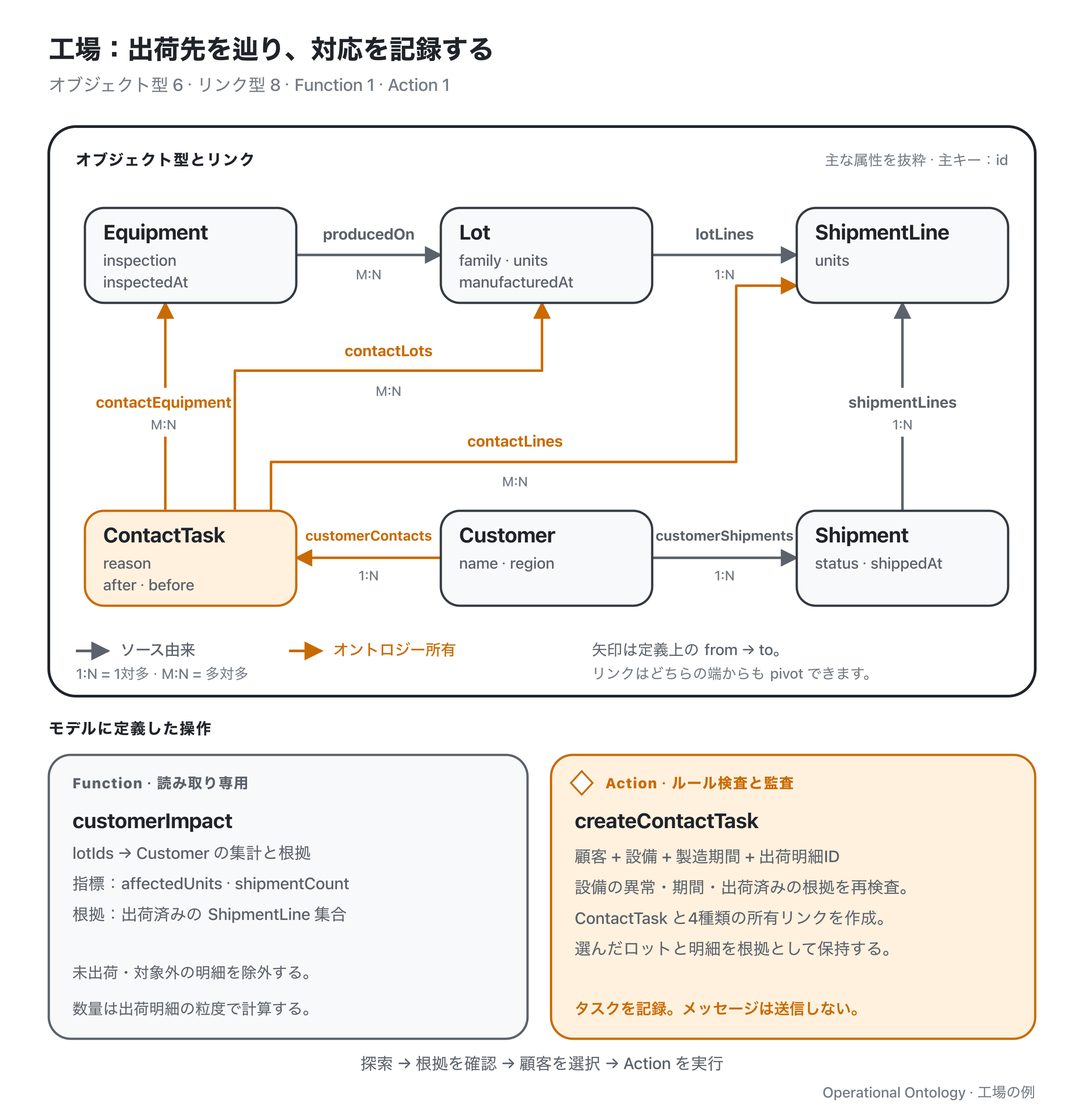
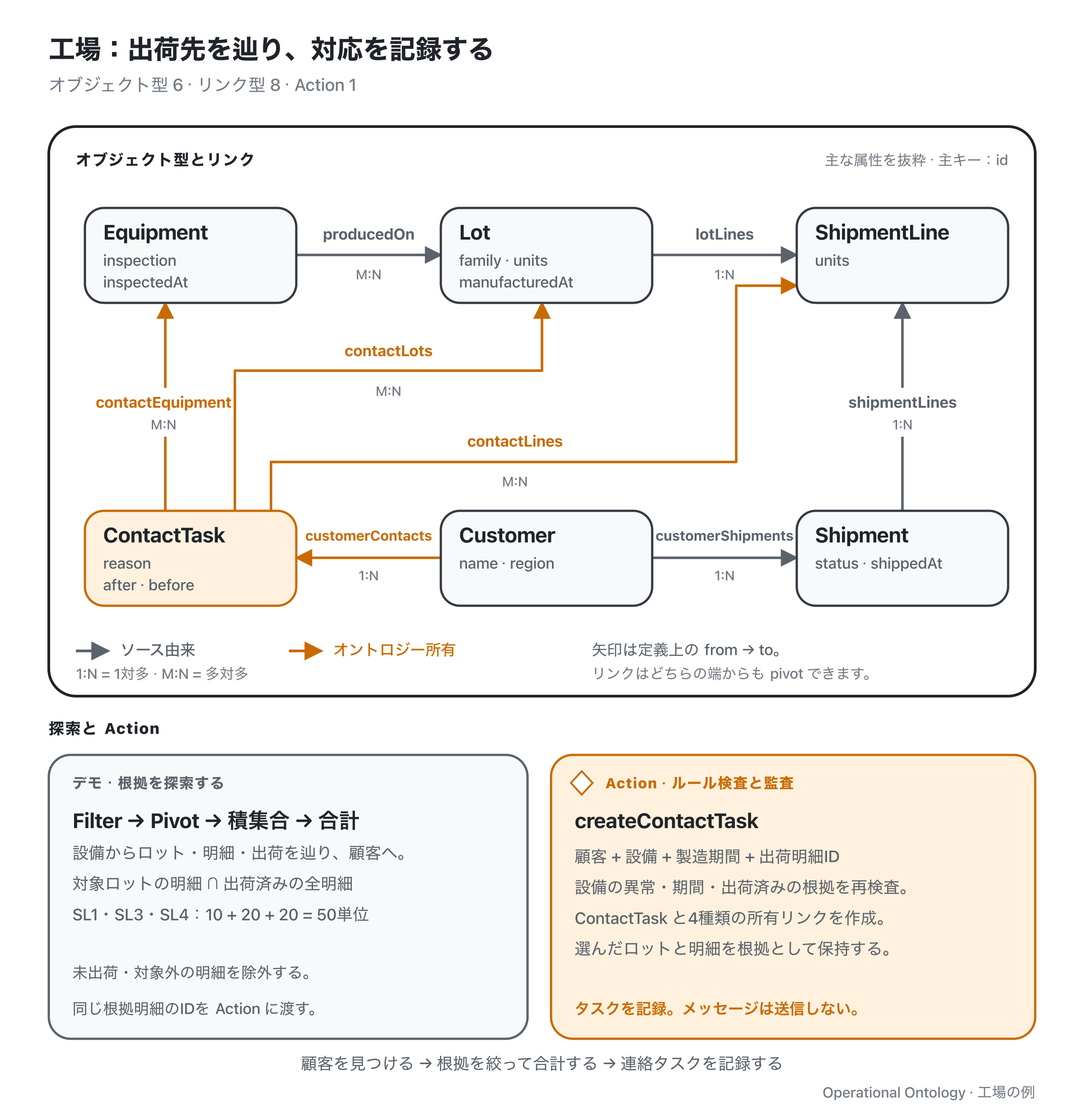
fix(factory): carry explored shipment evidence into contact tasks

diff --git a/examples/factory/scenario.test.ts b/examples/factory/scenario.test.ts
@@ -3,6 +3,7 @@ import assert from 'node:assert/strict'
 import { Client } from '@modelcontextprotocol/sdk/client/index.js'
 import { InMemoryTransport } from '@modelcontextprotocol/sdk/inMemory.js'
 import { buildMcpServer } from '../../src/mcp.js'
+import { objectSet, type ObjectSet } from '../../src/core.js'
 import { integrate } from './integrate.js'
 import { createFactory } from './runtime.js'
 
@@ -30,6 +31,7 @@ test('factory investigates a supplied manufacturing window and records shipped-l
   const shipments = rt.filter(rt.pivot(affected, 'shipmentLines', { actor }), (object) => object.properties.status === 'shipped')
   const lines = rt.intersect(affected, rt.pivot(shipments, 'shipmentLines', { actor }))
   assert.deepEqual(ids(lines.objects), ['SL1', 'SL3', 'SL4'])
+  assert.equal(lines.objects.reduce((sum, line) => sum + (line.properties.units as number), 0), 50)
   assert.deepEqual(ids(shipments.objects), ['S1', 'S2'])
   assert.equal(shipments.objects.every((s) => s.properties.status === 'shipped'), true)
   assert.deepEqual(ids(rt.pivot(shipments, 'customerShipments', { actor }).objects), ['C1'])
@@ -52,18 +54,14 @@ test('factory investigates a supplied manufacturing window and records shipped-l
   assert.equal(rt.auditLog({ status: 'applied' }).length, 1)
 })
 
-test('factory impact counts affected line quantities once across converging paths', (t) => {
+test('factory exploration deduplicates converging production paths without losing shipment lines', (t) => {
   const { rt } = setup(t)
   const equipment = rt.filter(rt.search('Equipment', { actor }), (object) => ['PRESS-1', 'OVEN-1'].includes(object.properties.id as string))
   const lots = rt.pivot(equipment, 'producedOn', { actor })
   assert.deepEqual(ids(lots.objects), ['L1', 'L2', 'L3'])
-  const impact = rt.call('customerImpact', { lotIds: [...ids(lots.objects), 'L1'] }, { actor })
-  assert.deepEqual(impact.aggregation.values, [
-    { key: 'C1', pks: ['C1'], metrics: { affectedUnits: 50, shipmentCount: 2 } },
-    { key: 'C2', pks: ['C2'], metrics: { affectedUnits: 15, shipmentCount: 1 } },
-  ])
-  assert.deepEqual(ids(impact.evidence[0].lines.objects), ['SL1', 'SL3', 'SL4'])
-  assert.deepEqual(rt.call('customerImpact', { lotIds: [] }, { actor }).aggregation.set, { type: 'Customer', objects: [] })
+  const lines = rt.pivot(lots, 'lotLines', { actor })
+  assert.deepEqual(ids(lines.objects), ['SL1', 'SL3', 'SL5', 'SL2', 'SL4'])
+  assert.equal(lines.objects.reduce((sum, line) => sum + (line.properties.units as number), 0), 75)
   assert.deepEqual(rt.auditLog(), [])
 })
 
@@ -72,25 +70,22 @@ for (const status of ['pending', 'held']) {
     const { rt, sources } = setup(t)
     sources.wms.prepare('UPDATE shipment SET status = ?, shipped_at = NULL WHERE id = ?').run(status, 'S2')
     rt.load(integrate(sources))
-    const impact = rt.call('customerImpact', { lotIds: ['L1', 'L3'] }, { actor })
-    assert.deepEqual(impact.aggregation.values, [
-      { key: 'C1', pks: ['C1'], metrics: { affectedUnits: 10, shipmentCount: 1 } },
-    ])
-    assert.deepEqual(ids(impact.evidence[0].lines.objects), ['SL1'], 'exclude unshipped lines and unrelated L4 packed in S1')
+    const lots = objectSet('Lot', ['L1', 'L3'].map((id) => rt.get('Lot', id, { actor })!))
+    const affected = rt.pivot(lots, 'lotLines', { actor })
+    const shipments = rt.filter(rt.pivot(affected, 'shipmentLines', { actor }), (object) => object.properties.status === 'shipped')
+    const evidence = rt.intersect(affected, rt.pivot(shipments, 'shipmentLines', { actor }))
+    assert.deepEqual(ids(evidence.objects), ['SL1'], 'exclude unshipped lines and unrelated L4 packed in S1')
+    assert.equal(evidence.objects[0].properties.units, 10)
     const request = {
       customerId: 'C1', equipmentId: 'PRESS-1', taskId: 'CONTACT', reason: 'Review affected shipped products',
       after: '2026-09-06T00:00:00+09:00', before: '2026-09-07T00:00:00+09:00',
-      lineIds: ids(impact.evidence[0].lines.objects),
+      lineIds: ids(evidence.objects),
     }
     assert.equal(rt.execute('createContactTask', request, { actor }).ok, true)
     assert.deepEqual(ids(rt.traverse(rt.get('ContactTask', 'CONTACT', { actor })!, 'contactLines', { actor }).objects), ['SL1'])
 
     sources.wms.prepare('UPDATE shipment SET status = ?, shipped_at = NULL WHERE id = ?').run(status, 'S1')
     rt.load(integrate(sources))
-    const none = rt.call('customerImpact', { lotIds: ['L1', 'L3'] }, { actor })
-    assert.deepEqual(none.aggregation.set, { type: 'Customer', objects: [] })
-    assert.deepEqual(none.aggregation.values, [])
-    assert.deepEqual(none.evidence, [])
     const stale = rt.execute('createContactTask', { ...request, taskId: 'STALE' }, { actor })
     assert.equal(stale.ok, false)
     if (!stale.ok) assert.equal(stale.error.code, 'INVALID_EVIDENCE')
@@ -98,36 +93,44 @@ for (const status of ['pending', 'held']) {
   })
 }
 
-test('MCP clients filter customer-impact metrics locally and record the returned evidence', async (t) => {
+test('MCP clients discover factory evidence through client filters, pivots and intersection before recording it', async (t) => {
   const app = setup(t)
   const server = buildMcpServer(app.rt, { agent: 'investigator' })
   const [clientTransport, serverTransport] = InMemoryTransport.createLinkedPair()
   const client = new Client({ name: 'factory-test', version: '0.0.0' })
   await Promise.all([server.connect(serverTransport), client.connect(clientTransport)])
   t.after(async () => { await client.close(); await server.close() })
-  const tool = (await client.listTools()).tools.find((tool) => tool.name === 'customer_impact')!
-  assert.equal(tool.annotations?.readOnlyHint, true)
-  assert.deepEqual(tool.inputSchema.required, ['lotIds'])
-  const readJson = (result: Awaited<ReturnType<typeof client.callTool>>) => {
+  async function call<T>(name: string, args: Record<string, unknown>): Promise<T> {
+    const result = await client.callTool({ name, arguments: args })
     assert.notEqual(result.isError, true)
     assert.ok(Array.isArray(result.content))
     const block = result.content[0]
     assert.equal(block.type, 'text')
-    return JSON.parse(block.text as string)
+    return JSON.parse(block.text as string) as T
   }
-  const impact = readJson(await client.callTool({ name: 'customer_impact', arguments: { lotIds: ['L1', 'L3'] } })) as
-    ReturnType<typeof app.rt.ontology.functions.customerImpact.run>
-  assert.deepEqual(impact.aggregation.values, [{ key: 'C1', pks: ['C1'], metrics: { affectedUnits: 50, shipmentCount: 2 } }])
-  // This code runs in the client; only the resulting IDs return to the server.
-  const selectedIds = impact.aggregation.values.filter((row) => row.metrics.affectedUnits >= 40).flatMap((row) => row.pks)
-  assert.deepEqual(selectedIds, ['C1'])
+  const window = { after: '2026-09-06T00:00:00+09:00', before: '2026-09-07T00:00:00+09:00' }
+  const allEquipment = await call<ObjectSet>('search_equipment', {})
+  // These predicates run in the client; selected IDs return to the server.
+  const equipment = allEquipment.objects.filter((object) => object.properties.inspection === 'anomaly')
+  const produced = await call<ObjectSet>('pivot_produced_on', { source: { type: 'Equipment', pks: ids(equipment) } })
+  const lots = produced.objects.filter((object) => {
+    const time = Date.parse(object.properties.manufacturedAt as string)
+    return time >= Date.parse(window.after) && time < Date.parse(window.before)
+  })
+  const lines = await call<ObjectSet>('pivot_lot_lines', { source: { type: 'Lot', pks: ids(lots) } })
+  const allShipments = await call<ObjectSet>('pivot_shipment_lines', { source: { type: 'ShipmentLine', pks: ids(lines.objects) } })
+  const shipments = allShipments.objects.filter((object) => object.properties.status === 'shipped')
+  const customers = await call<ObjectSet>('pivot_customer_shipments', { source: { type: 'Shipment', pks: ids(shipments) } })
+  assert.deepEqual(ids(customers.objects), ['C1'])
+  const packed = await call<ObjectSet>('pivot_shipment_lines', { source: { type: 'Shipment', pks: ids(shipments) } })
+  const evidence = await call<ObjectSet>('intersect_shipment_line', { left: ids(lines.objects), right: ids(packed.objects) })
+  assert.deepEqual(ids(evidence.objects), ['SL1', 'SL3', 'SL4'])
+  assert.equal(evidence.objects.reduce((sum, line) => sum + (line.properties.units as number), 0), 50)
   assert.deepEqual(app.rt.auditLog(), [])
-  const evidence = impact.evidence.find((e) => e.customerId === selectedIds[0])!
-  readJson(await client.callTool({ name: 'create_contact_task', arguments: {
-    customerId: evidence.customerId, equipmentId: 'PRESS-1', taskId: 'MCP-CONTACT',
-    after: '2026-09-06T00:00:00+09:00', before: '2026-09-07T00:00:00+09:00',
-    lineIds: ids(evidence.lines.objects), reason: 'Review contact and reinspection',
-  } }))
+  await call('create_contact_task', {
+    customerId: customers.objects[0].pk, equipmentId: equipment[0].pk, taskId: 'MCP-CONTACT', ...window,
+    lineIds: ids(evidence.objects), reason: 'Review contact and reinspection',
+  })
   const task = app.rt.get('ContactTask', 'MCP-CONTACT', { actor })!
   assert.deepEqual(ids(app.rt.traverse(task, 'contactLines', { actor }).objects), ['SL1', 'SL3', 'SL4'])
   assert.deepEqual(app.rt.auditLog().map((entry) => [entry.status, entry.actor]), [['applied', 'agent:investigator']])

diff --git a/examples/factory/demo.ts b/examples/factory/demo.ts
@@ -1,5 +1,4 @@
 /** Run: pnpm demo:factory. Source databases and the store are reset in memory. */
-import { integrate } from './integrate.js'
 import { createFactory } from './runtime.js'
 import { heading as h, log, showObjects, trace } from '../demo-output.js'
 
@@ -9,6 +8,7 @@ const actor = 'user:factory-ops'
 const window = { after: '2026-09-06T00:00:00+09:00', before: '2026-09-07T00:00:00+09:00' }
 try {
   h('1. Read: an inspection finding sets the investigation scope')
+  log('Goal: find whom to contact, identify the shipped products and quantities, then record a contact task.')
   log('September 8: an equipment inspection found an anomaly. Release inspections had passed; goods shipped September 7.')
   log('September 6 is the supplied investigation window, not an inferred failure interval.')
   const allEquipment = rt.search('Equipment', { actor })
@@ -29,6 +29,7 @@ try {
   log('L2 falls outside the supplied manufacturing window.')
   const lines = rt.pivot(lots, 'lotLines', { actor })
   trace('Pivot lotLines (forward): Lot → ShipmentLine', { lots }, lines)
+  showObjects('Save set A: lines from the selected lots, including unshipped goods', lines)
   const allShipments = rt.pivot(lines, 'shipmentLines', { actor })
   trace('Pivot shipmentLines (reverse): ShipmentLine → Shipment', { lines }, allShipments)
   console.table(allShipments.objects.map(({ pk, properties }) => ({ shipment: pk, status: properties.status })))
@@ -42,40 +43,39 @@ try {
   h('3. Transform: retain shipped evidence and aggregate impact')
   const packedLines = rt.pivot(shipments, 'shipmentLines', { actor })
   trace('Pivot shipmentLines (forward): return to the shipped contents', { shipments }, packedLines)
+  showObjects('Set B: contents of the shipped shipments, including unrelated lots', packedLines)
   const shippedAffected = rt.intersect(lines, packedLines)
-  trace('Intersect: affected lines ∩ shipped contents', { affectedLines: lines, packedLines }, shippedAffected)
+  trace('Intersect A ∩ B: affected lines ∩ shipped contents', { A: lines, B: packedLines }, shippedAffected)
   log('SL5 is affected but unshipped; SL6 is shipped but belongs to unrelated L4. Neither survives the intersection.')
-  const manufactured = rt.aggregate(lots, { groupBy: 'family', sum: 'units' })
-  log('\n  Aggregate: group selected lots by family, count lots and sum manufactured units')
-  showObjects('input', lots)
-  console.table(manufactured.values.map(({ key, pks, metrics }) => ({ family: key, lots: pks.join(', '), ...metrics })))
-  log('\n  Function customerImpact: calculate shipped quantities and retain their evidence')
-  log('    params:', { lotIds: lots.objects.map((lot) => lot.pk) })
-  const impact = rt.call('customerImpact', { lotIds: lots.objects.map((lot) => lot.pk) }, { actor })
-  showObjects('customers', impact.aggregation.set)
-  console.table(impact.aggregation.values.map(({ key, metrics }) => ({ key, ...metrics })))
-  for (const row of impact.evidence) showObjects(`evidence for ${row.customerId}`, row.lines)
-  log('The 60 manufactured units and 50 affected shipped units answer different questions; quantities retain their original record grain.')
+  log('\n  Aggregate: sum units on the retained ShipmentLine records')
+  showObjects('input', shippedAffected)
+  console.table(shippedAffected.objects.map(({ pk, properties }) => ({ line: pk, units: properties.units })))
+  const affectedUnits = shippedAffected.objects.reduce((sum, line) => sum + (line.properties.units as number), 0)
+  log('Units in evidence:', affectedUnits)
+  log('These are 50 shipped units: 10 + 20 + 20. The selected lots contain 60 units including 10 unshipped; the shipped shipments contain 55 including 5 from L4.')
 
   h('4. Write: record a customer contact task with its evidence')
   const customer = customers.objects[0]
-  const evidence = impact.evidence.find((e) => e.customerId === customer.pk)!
+  log('Contact summary:', { customer: customer.pk, lots: lots.objects.map((lot) => lot.pk), shipments: shipments.objects.length, lines: shippedAffected.objects.length, affectedUnits })
+  // This is the same evidence set we just intersected and summed.
   const request = {
     customerId: customer.pk, equipmentId: equipment.objects[0].pk, taskId: 'CONTACT-C1', ...window,
-    lineIds: evidence.lines.objects.map((line) => line.pk),
+    lineIds: shippedAffected.objects.map((line) => line.pk),
     reason: 'Review reinspection and customer contact for potentially affected shipments; product defects are not confirmed',
   }
   log('Selected customer and evidence:', request)
   log('Tasks before execution:', rt.search('ContactTask', { actor }).objects.length)
+  log('The selection is unsaved. Execution rechecks the anomaly, window, customer and shipped-line evidence against current records.')
   log('Create task:', rt.execute('createContactTask', request, { actor }))
   log('Task creation sends no message and does not try to hold already shipped products.')
 
-  h('5. Re-index: the task and its evidence links survive')
-  rt.load(integrate(app.sources))
+  h('5. Read: inspect the saved task and all its evidence links')
   const task = rt.get('ContactTask', 'CONTACT-C1', { actor })!
-  const savedLines = rt.traverse(task, 'contactLines', { actor })
-  trace('Traverse contactLines (forward): ContactTask → ShipmentLine', { task }, savedLines)
-  log('Saved evidence after source refresh:', savedLines)
+  log('Saved contact task:', task)
+  for (const link of ['customerContacts', 'contactEquipment', 'contactLots', 'contactLines']) {
+    trace(`Traverse ${link}: task → saved evidence`, { task }, rt.traverse(task, link, { actor }))
+  }
+  log('Next task: use these records to prepare customer contact and review reinspection needs.')
 
   h('6. Audit log (applied AND rejected attempts)')
   for (const e of rt.auditLog()) {

diff --git a/examples/factory/ontology.ts b/examples/factory/ontology.ts
@@ -1,6 +1,6 @@
 import { z } from 'zod'
 import {
-  aggregationResult, create, defineAction, defineFunction, defineLink, defineObject, defineOntology, link, objectSet, reject,
+  create, defineAction, defineLink, defineObject, defineOntology, link, objectSet, reject,
   type Runtime,
 } from '../../src/core.js'
 
@@ -95,37 +95,6 @@ export function createFactoryOntology(read: () => FactoryRead) {
             ...lots.objects.map((lot) => link('contactLots', params.taskId, lot.pk)),
             ...params.lineIds.map((id) => link('contactLines', params.taskId, id)),
           ]
-        },
-      }),
-    },
-    functions: {
-      customerImpact: defineFunction({
-        description: 'Summarize shipped quantities of the selected lots by customer, retaining only their shipped-line evidence.',
-        params: { lotIds: z.array(z.string()) },
-        run: ({ params, actor }) => {
-          const lots = objectSet('Lot', params.lotIds.map((id) => {
-            const lot = read().get('Lot', id, { actor })
-            if (!lot) throw new Error(`Lot ${id} is missing or hidden`)
-            return lot
-          }))
-          const affected = read().pivot(lots, 'lotLines', { actor })
-          const shipments = read().filter(read().pivot(affected, 'shipmentLines', { actor }), (object) => object.properties.status === 'shipped')
-          // Returning through shipments also reaches unaffected lots packed with
-          // them. Intersect with the original lines to keep the evidence scoped.
-          const lines = read().intersect(affected, read().pivot(shipments, 'shipmentLines', { actor }))
-          const customers = read().pivot(shipments, 'customerShipments', { actor })
-          const evidence = customers.objects.map((customer) => {
-            const customerLines = read().pivot(read().traverse(customer, 'customerShipments', { actor }), 'shipmentLines', { actor })
-            return { customerId: customer.pk, lines: read().intersect(lines, customerLines) }
-          })
-          const aggregation = aggregationResult(customers, evidence.map((row) => ({
-            key: row.customerId, pks: [row.customerId],
-            metrics: {
-              affectedUnits: row.lines.objects.reduce((sum, line) => sum + (line.properties.units as number), 0),
-              shipmentCount: read().pivot(row.lines, 'shipmentLines', { actor }).objects.length,
-            },
-          })))
-          return { aggregation, evidence }
         },
       }),
     },

diff --git a/examples/factory/README.ja.md b/examples/factory/README.ja.md
@@ -6,7 +6,7 @@
 
 9月8日の設備点検で PRESS-1 の異常が確認されました。出荷時の検査は合格しており、9月7日に出荷済みです。今回の調査には、9月6日を製造日の対象範囲として与えます。製品への影響は疑いの段階で、既知の不良品を出荷した理由や、故障開始時刻を推定する例ではありません。
 
-<img src="./assets/ontology-overview.ja.png" alt="工場のオントロジー全体図。Equipment・Lot・ShipmentLine・Shipment・Customer と、ontology-owned な ContactTask のリンク構造。customerImpact が出荷明細の根拠を集計し、createContactTask が選択内容を検査してタスクと根拠リンクを記録する。">
+<img src="./assets/ontology-overview.ja.png" alt="工場のオントロジー全体図。Equipment・Lot・ShipmentLine・Shipment・Customer と、ontology-owned な ContactTask のリンク構造。filter・pivot で顧客を探し、積集合で出荷明細の根拠を残す。createContactTask が選択内容を検査して記録する。">
 
 グレーはソース由来、オレンジはオントロジーが所有する状態です。全オブジェクト型・リンク型を示し、属性は抜粋しています。[編集用 SVG](./assets/ontology-overview.ja.svg)。
 
@@ -16,7 +16,7 @@
   <img src="https://i.ytimg.com/vi/p6pljWy4xzg/maxresdefault.jpg" alt="オントロジーの捜査型分析解説｜工場編" width="640">
 </a>
 
-動画の制作時点と API が異なります。現在の呼び出し方は [`demo.ts`](./demo.ts) を参照してください。
+[`demo.ts`](./demo.ts) は動画の探索と根拠の流れに沿っています。
 
 `demo.ts` は Runtime の filter・pivot・集合演算を直接組み合わせます。各操作で入力と結果の型・ID・件数を表示します。
 
@@ -30,16 +30,18 @@
 | 顧客へ pivot | C1（Aoba）、重複を除いて1件 |
 | 出荷済みの出荷から、含まれる全明細へ pivot | SL1・SL6・SL3・SL4 |
 | 元の対象明細との積集合を取る | SL1・SL3・SL4 |
+| 残った明細の数量を合計する | 10 + 20 + 20 = 50単位 |
+| 同じ根拠明細のIDでタスクを作る | CONTACT-C1 と7本のリンク |
 
 C1 は対象ロットの出荷先なので見つかります。C2 の L2 は9月5日製造なので対象外です。C3 宛ての L1 の残り10単位は未出荷のため除外します。L1 は出荷済みの S1・S2 に含まれますが、各段階で同じ対象の重複を除きます。
 
-モデルの `customerImpact` Function は出荷済みの対象明細だけを保持し、顧客ごとの影響数量を求めます。出荷から明細へ戻る際に、元の対象明細との積集合を取ることで、S1 に同梱された対象外の L4 も除外します。残る根拠は SL1・SL3・SL4 で、C1 は2出荷で50単位です。デモで製品系列別に集計する L1・L3 の製造数量60単位とは異なります。数量は出荷明細の粒度で計算し、重複排除した顧客集合からは求めません。
+デモでは、対象ロットの明細を集合 A、出荷済みの S1・S2 に含まれる全明細を集合 B として保持します。積集合で未出荷の SL5 と、対象外の L4 の明細 SL6 を除外します。残った SL1・SL3・SL4 の `units` を合計すると、2出荷で50単位になります。対象ロットは未出荷分を含めて60単位、出荷済みの出荷は対象外の商品も含めて55単位です。数量は出荷明細の粒度で求めます。この積集合からそのまま Action の `lineIds` を作るため、画面で追った探索、合計数量、保存する根拠がつながります。
 
 担当者は根拠を確認し、`createContactTask` を実行します。Action は設備の点検結果、製造期間、顧客、出荷済み明細の根拠を検査し、タスクと顧客・設備・ロット・明細へのリンクを原子的に作ります。タスクは ontology-owned です。メッセージは送らず、出荷済み商品を保留にしようともしません。再インデックス後もタスクと根拠リンクを保持しますが、リンクが指すソースレコードの内容を過去のまま固定するものではありません。
 
 ## コードと MCP
 
-[`demo.ts`](./demo.ts) から読み、ルールと Function は [`ontology.ts`](./ontology.ts) で確認できます。`fixtures.ts`・`integrate.ts` が既存のソースの事実を供給し、`runtime.ts` がモデルの読み取りとランタイムを接続します。ソースへの書き戻しは [orders](../orders/ontology.ts)、候補と割当は [hospital](../hospital/README.ja.md)、共通項の調査は [finance](../finance/README.ja.md) で扱います。
+[`demo.ts`](./demo.ts) から読み、Action とそのルールは [`ontology.ts`](./ontology.ts) で確認できます。`fixtures.ts`・`integrate.ts` が既存のソースの事実を供給し、`runtime.ts` がモデルの読み取りとランタイムを接続します。ソースへの書き戻しは [orders](../orders/ontology.ts)、候補検索の Function と割当は [hospital](../hospital/README.ja.md)、共通項の調査は [finance](../finance/README.ja.md) で扱います。
 
 `pnpm mcp:factory` で起動します。リポジトリのルートからは次でも接続できます。
 
@@ -47,4 +49,4 @@ C1 は対象ロットの出荷先なので見つかります。C2 の L2 は9月
 claude --strict-mcp-config --mcp-config examples/factory/.mcp.json
 ```
 
-同じモデルから読み取り・pivot・集合演算・集計のツール、Function、Action を生成します。エージェントは自身のコード実行環境で取得済みオブジェクトや集計値を絞り、選んだIDを次のツールへ渡します。例えば `customer_impact` が集計と根拠を返し、`create_contact_task` が根拠を再検査します。契約は [IMPLEMENTATION.ja.md](../../IMPLEMENTATION.ja.md) にあります。単一の書き込み元と、判断に関係する全資源が見えることを前提とします。
+モデルから読み取り・pivot・集合演算・集計のツールと `create_contact_task` を生成します。エージェントは自身のコード実行環境で取得済みオブジェクトを絞り、選んだIDを次のツールへ渡します。`pivot_shipment_lines` で各明細集合を得て、`intersect_shipment_line` で共通する根拠を残し、その数量を合計してから根拠のIDを Action に渡します。`scenario.test.ts` の MCP テストでこの流れを確認できます。工場モデルには利用者に代わって探索を完了する Function は定義していません。契約は [IMPLEMENTATION.ja.md](../../IMPLEMENTATION.ja.md) にあります。単一の書き込み元と、判断に関係する全資源が見えることを前提とします。

diff --git a/examples/factory/README.md b/examples/factory/README.md
@@ -6,7 +6,7 @@ Run `pnpm demo:factory` from the repository root. The demo uses synthetic MES an
 
 On September 8, an equipment inspection identifies an anomaly on PRESS-1. Release inspections had passed, and shipments left on September 7. The investigation is given September 6 as its manufacturing window. It is looking for potentially affected products, not explaining why known defective goods were shipped or estimating when the fault began.
 
-<img src="./assets/ontology-overview.png" alt="Factory ontology with Equipment, Lot, ShipmentLine, Shipment, Customer and ontology-owned ContactTask. customerImpact summarizes shipped-line evidence; createContactTask validates the selection and records the task and evidence links.">
+<img src="./assets/ontology-overview.png" alt="Factory ontology with Equipment, Lot, ShipmentLine, Shipment, Customer and ontology-owned ContactTask. Filter and pivot find the customer; intersection retains shipped-line evidence. createContactTask validates and records that selection.">
 
 Gray: source-backed state. Orange: ontology-owned state. The diagram shows all object and link types, with selected properties. [Editable SVG](./assets/ontology-overview.svg).
 
@@ -16,7 +16,7 @@ Gray: source-backed state. Orange: ontology-owned state. The diagram shows all o
   <img src="https://i.ytimg.com/vi/kQFvOResIvI/maxresdefault.jpg" alt="Ontology: Investigative Analysis Explained | Factory" width="640">
 </a>
 
-The API differs from the version used to make the video. See [`demo.ts`](./demo.ts) for current calls.
+[`demo.ts`](./demo.ts) follows the video's exploration and evidence flow.
 
 `demo.ts` uses the runtime's filter, pivot and set operations directly. Each operation prints its input and result types, IDs and counts:
 
@@ -30,16 +30,18 @@ The API differs from the version used to make the video. See [`demo.ts`](./demo.
 | Pivot to customers | C1 (Aoba), once |
 | Pivot from shipped shipments back to all their lines | SL1, SL6, SL3, SL4 |
 | Intersect with the affected lines | SL1, SL3, SL4 |
+| Sum units on the retained lines | 10 + 20 + 20 = 50 |
+| Create a task with those same evidence IDs | CONTACT-C1 and seven links |
 
 C1 is found because it received the selected lots. C2 is excluded because its L2 was made September 5. The remaining 10 units of L1 destined for C3 are excluded because they have not shipped. L1 appears in shipped S1 and S2; set membership deduplicates identities at every step.
 
-The model's `customerImpact` Function retains only shipped lines from the selected lots and summarizes affected units per customer. When pivoting back from shipments to lines, it intersects with the original affected lines to exclude the unrelated L4 packed in S1. The remaining evidence is SL1, SL3 and SL4: C1 has 50 affected shipped units across two shipments. This is different from the 60 manufactured units in L1 and L3, which the demo also aggregates by product family. Quantity belongs to each shipment-line record, not to the deduplicated customer set.
+The demo keeps two ShipmentLine sets: A contains the selected lots' lines, and B contains everything in shipped S1 and S2. Their intersection excludes unshipped SL5 and unrelated SL6 from L4. Summing `units` on SL1, SL3 and SL4 gives 50 affected shipped units across two shipments. The selected lots contain 60 units including unshipped goods; the shipped shipments contain 55 units including unrelated goods. Quantity belongs to each shipment-line record. The same intersection supplies the Action's `lineIds`, so the visible exploration, total and saved evidence stay connected.
 
 The operator reviews the evidence and executes `createContactTask`. The Action checks the equipment finding, manufacturing window, customer and shipped-line evidence, then atomically creates an ontology-owned task with links to the customer, equipment, lots and lines. It sends no message and does not attempt to hold goods already shipped. Re-indexing preserves the task and evidence links; those links identify source records rather than freezing their historical contents.
 
 ## Code and MCP
 
-Start with [`demo.ts`](./demo.ts), then the rules and Functions in [`ontology.ts`](./ontology.ts). `fixtures.ts` and `integrate.ts` supply existing source facts, `runtime.ts` wires model reads to the runtime. Source write-back is covered in [orders](../orders/ontology.ts), candidates and allocation in [hospital](../hospital/README.md), and shared recipients in [finance](../finance/README.md).
+Start with [`demo.ts`](./demo.ts), then the Action and its rules in [`ontology.ts`](./ontology.ts). `fixtures.ts` and `integrate.ts` supply existing source facts, `runtime.ts` wires model reads to the runtime. Source write-back is covered in [orders](../orders/ontology.ts), candidate Functions and allocation in [hospital](../hospital/README.md), and shared recipients in [finance](../finance/README.md).
 
 Run `pnpm mcp:factory`, or connect from the repository root with:
 
@@ -47,4 +49,4 @@ Run `pnpm mcp:factory`, or connect from the repository root with:
 claude --strict-mcp-config --mcp-config examples/factory/.mcp.json
 ```
 
-The server generates read/pivot/set/aggregate tools, model Functions and Actions from the same definition. Agents filter returned objects and metrics in their own code execution environment, then send selected IDs to the next tool. For example, `customer_impact` returns its aggregation and evidence, and `create_contact_task` rechecks that evidence. Runtime contracts are in [IMPLEMENTATION.md](../../IMPLEMENTATION.md). This example assumes one writer and visibility of all resources relevant to a decision.
+The server generates read/pivot/set/aggregate tools and `create_contact_task` from the model. Agents filter returned objects in their own code execution environment and pass selected IDs to the next tool. `pivot_shipment_lines` returns each line set, `intersect_shipment_line` retains their common evidence, and the agent sums its units before passing its IDs to the Action. The MCP test in `scenario.test.ts` exercises this sequence; the factory model defines no Function that completes the exploration for the caller. Runtime contracts are in [IMPLEMENTATION.md](../../IMPLEMENTATION.md). This example assumes one writer and visibility of all resources relevant to a decision.

diff --git a/IMPLEMENTATION.md b/IMPLEMENTATION.md
@@ -161,7 +161,7 @@ Function implementations must use the caller's actor for their reads and must no
 
 Candidate evaluation and Action preconditions can share ordinary model functions. A Function can return eligibility or proposed changes; the Action checks business conditions and the edit plan against current indexed state when it executes. Function results do not reserve resources or guarantee the validity of the complete edit plan.
 
-The examples show [customer impact and contact tasks](./examples/factory/README.md), [candidate evaluation and allocation](./examples/hospital/README.md), and [recipient summaries and investigation cases](./examples/finance/README.md). Each documents its Function results, shared rules and Action effects. Stored evidence links retain record identities, not immutable copies of source record contents.
+The examples show [customer impact and contact tasks](./examples/factory/README.md), [candidate evaluation and allocation](./examples/hospital/README.md), and [recipient summaries and investigation cases](./examples/finance/README.md). They document how exploration supplies Action evidence, how Functions evaluate candidates or compare metrics, and how Actions recheck and save selections. Stored evidence links retain record identities, not immutable copies of source record contents.
 
 ## The authority line, checked
 
